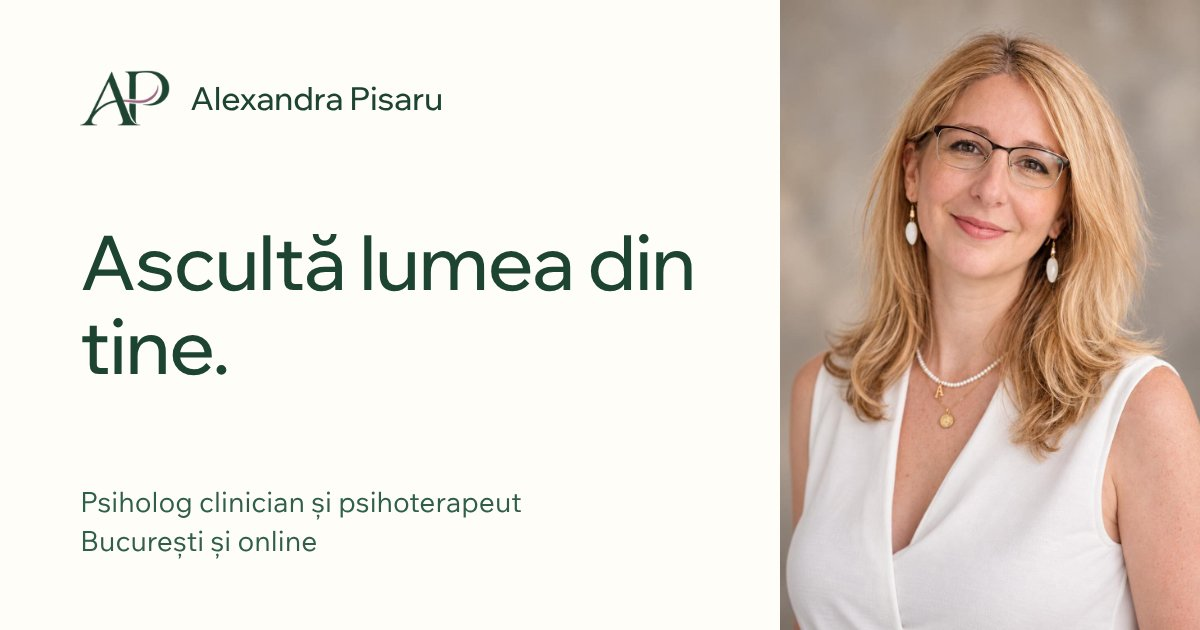
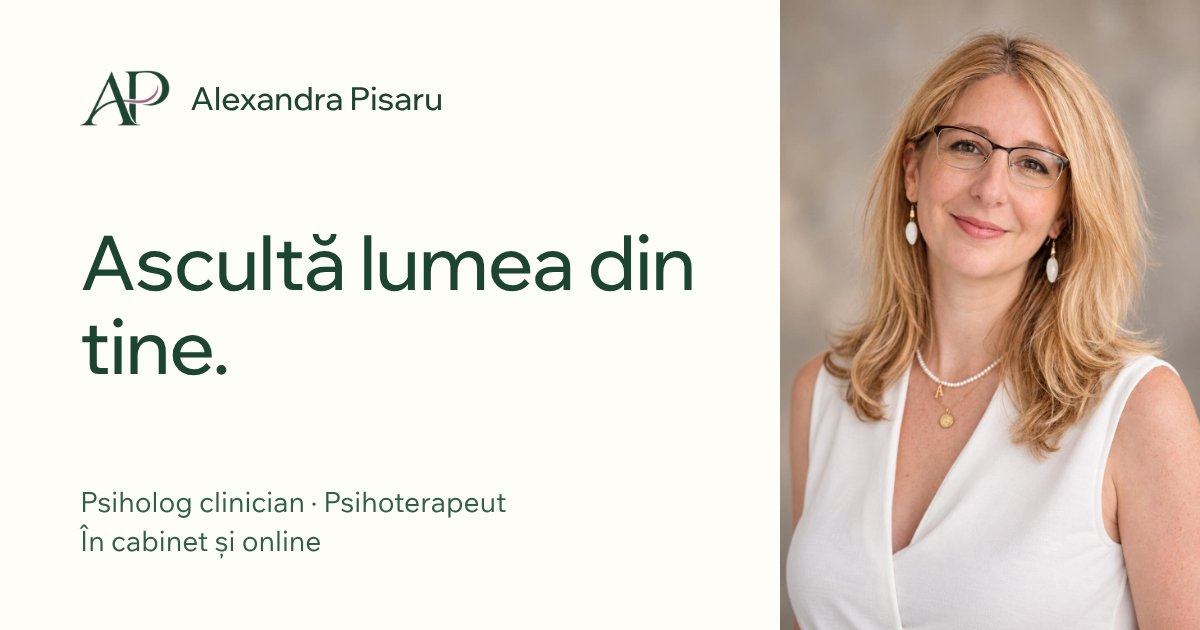
Aplică textele aprobate pentru pagina Acasă
Introducere, repere, „Poate te regăsești aici”, patru servicii (cuplu și
familie separate, adolescenți de la 12 ani la final), secțiunea nouă „În
cabinet sau online” și invitația „Uneori, schimbarea începe cu o conversație.”.
Citatul separat a fost eliminat. Titlul profesional complet și varianta scurtă
din antet sunt actualizate; detaliile încă neconfirmate (acordul părinților,
formularea atestatului, locația din descrierea Google) au fost lăsate deoparte.

Claude-Session: https://claude.ai/code/session_01RHruyKY6coomjNGPGugXMz

Changed region(s): [[0.0617, 0.8444, 0.2775, 0.8746], [0.2467, 0.7841, 0.4317, 0.8143]]

diff --git a/lib/date-structurate.js b/lib/date-structurate.js
@@ -14,11 +14,6 @@ export function dateStructurate(site, pagina) {
     image: abs("/assets/imagini/alexandra-pisaru.jpg"),
     sameAs: [site.linkedin],
     alumniOf: { "@type": "CollegeOrUniversity", name: "Universitatea Spiru Haret" },
-    hasCredential: {
-      "@type": "EducationalOccupationalCredential",
-      credentialCategory: `Atestat de liberă practică în psihologie clinică, cod RUP ${site.codRup}`,
-      recognizedBy: { "@type": "Organization", name: "Colegiul Psihologilor din România" },
-    },
   };
 
   const adresa = {
@@ -33,8 +28,8 @@ export function dateStructurate(site, pagina) {
   const cabinet = {
     "@type": "MedicalBusiness",
     "@id": abs("/#cabinet"),
-    name: `${site.nume}, ${site.titluScurt}`,
-    description: "Psihoterapie pentru adulți, adolescenți, cupluri și familii, în cabinet lângă Piața Victoriei și online.",
+    name: `${site.nume}, psiholog clinician și psihoterapeut`,
+    description: "Psihoterapie și consiliere pentru adulți, cupluri, familii și adolescenți de la 12 ani, în cabinet și online.",
     url: abs("/"),
     image: abs("/assets/imagini/previzualizare.jpg"),
     logo: abs("/assets/imagini/logo-complet.png"),

diff --git a/src/assets/css/style.css b/src/assets/css/style.css
@@ -514,3 +514,4 @@ strong { font-weight: 600; color: var(--verde-inchis); }
 .card-articol .link-sageata { align-self: flex-start; }
 .despre__foto .foto { aspect-ratio: 3 / 4; object-position: center; }
 .citat--sub-carduri { margin-top: clamp(3rem, 7vw, 5rem); }
+@media (min-width: 62rem) { .grila-carduri--patru { grid-template-columns: repeat(4, 1fr); } }

diff --git a/INSTRUCTIUNI.md b/INSTRUCTIUNI.md
@@ -28,7 +28,7 @@ Pentru curiozitate, iată unde stau lucrurile:
 | --- | --- |
 | Articolele | `src/articole/` (câte un fișier pentru fiecare articol) |
 | Prețurile și regulile de plată | `src/_data/tarife.json` |
-| Date de contact, citatul, codul Google Analytics | `src/_data/site.json` |
+| Date de contact, codul Google Analytics | `src/_data/site.json` |
 | Textele de pe pagina Acasă | `src/_data/acasa.json` |
 | Serviciile și temele | `src/_data/servicii.json` |
 | Întrebările frecvente | `src/_data/intrebari.json` |
@@ -156,7 +156,6 @@ Data viitoare intri direct pe [app.pagescms.org](https://app.pagescms.org) și e
 | Ce vrei să schimbi | Unde în Pages CMS |
 | --- | --- |
 | Telefonul, e-mailul, adresa, programul | Date de contact și setări |
-| Citatul de pe prima pagină | Date de contact și setări > Citatul de pe prima pagină |
 | Textul butonului principal | Date de contact și setări |
 | Titlul mare, listele, finalul paginii Acasă | Pagina Acasă |
 | Textul „Despre mine” | Despre mine (text) |
@@ -207,7 +206,6 @@ Site-ul are deja bannerul de acord pentru cookie-uri. Bannerul apare și statist
 
 - [ ] **CUI-ul** cabinetului (Pages CMS > Date de contact și setări > CUI)
 - [ ] **Perioadele de păstrare a datelor** din pagina Protecția datelor, după ce le verifici cu cerințele Colegiului (le completez eu, spune-mi doar perioadele)
-- [ ] **Citatul** de pe prima pagină (acum e unul provizoriu)
 - [ ] **Codul Google Analytics**
 - [ ] **Codul poștal** al cabinetului (opțional, ajută la Google)
 - [ ] Primul articol, în locul celui model
